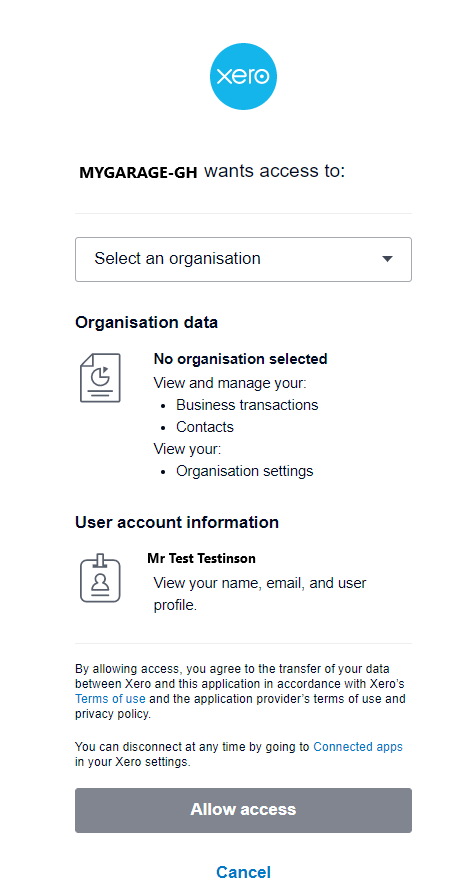
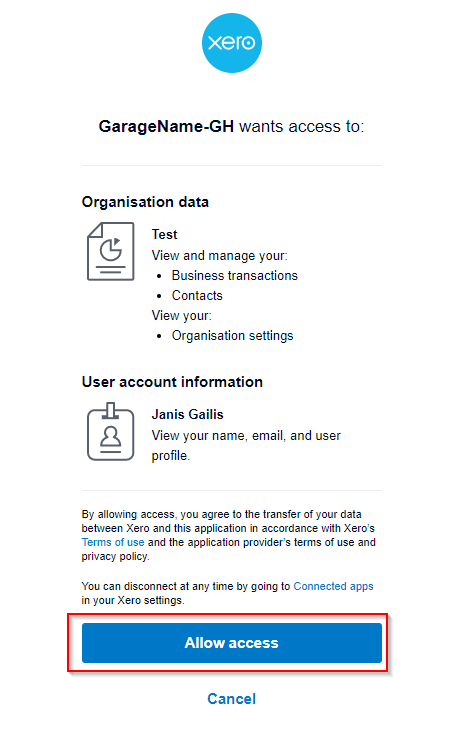
xero integration docs update

Changed region(s): [[0.1223, 0.2716, 0.8865, 0.9959], [0.1528, 0.0, 0.7948, 0.2112], [0.8559, 0.2716, 0.8865, 0.332]]

diff --git a/docs/xero-api-integration.md b/docs/xero-api-integration.md
@@ -39,28 +39,35 @@ Garage Hive allows you to export your data to Xero via an API. You can export th
 
     ![](media/garagehive-xero-setup.png)
 
-1. To get started with the integration, you'll need to create an "app" in Xero. Sign in with your Xero credentials at [this link](https://developer.xero.com/myapps/){:target="_blank"}. Now, in the middle or top right of the screen, choose **New App**.
-1. Name the App; It should be unique, thus we recommend using **GarageName-GH**, but it may be anything. Fill up the details shown below and **Create The App**.
+1. To get started with the integration, you'll need to create an "**App**" in Xero. Sign in with your Xero credentials at [this link](https://developer.xero.com/myapps/){:target="_blank"}. Now, in the middle or top right of the screen, choose **New App**.
+1. Name the App; It should be unique, thus we recommend using **GarageName-GH**, but it may be any other name that you choose. Fill up the details shown below.
    * **Company or Application URL** - ht<span>tps://www.garagehive.co.uk
-   * **OAuth 2.0 redirect URI** - ht<span>tps://hivemgtservice.garagehive.co.uk/xero-oauth2/callback
+   * **Redirect URL** - ht<span>tps://hivemgtservice.garagehive.co.uk/xero-oauth2/callback
+
+1. Select the **Terms & Conditions** checkbox and then click **Create App**.
 
      ![](media/xero-2-orth-app.png)
 
-1. Once created, copy the client id and paste it into Garage Hive in the **Xero Client Id** field under **Xero** FastTab.
-1. Then choose Generate secret, copy it, and enter it into Garage Hive in the **Xero Client Secret** field.
-1. Select **Save** in Xero.
+1. In the next page, select **Configuration** on the left hand side.
+
+     ![](media/xero-2-orth-app1.png)
+
+1. Copy the client id and paste it into Garage Hive in the **Xero Client Id** field under **Xero** FastTab.
+1. Then choose **Generate a Secret**, copy it, and enter it into Garage Hive in the **Xero Client Secret** field.
 
      ![](media/xero-2-orth-app-2.png)
 
-1. Now, under Garage Hive's **Accountancy Integration Setup**, from the actions bar, choose **Actions**, then **Xero**, and lastly **Authorise**.
+     ![](media/xero-2-orth-app2.png)
+
+     ![](media/xero-2-orth-app3.png) 
+
+2. Now, under Garage Hive's **Accountancy Integration Setup**, from the actions bar, choose **Actions**, then **Xero**, and lastly **Authorise**.
 
      ![](media/xero-2-orth-app-3.png)
 
-1. You will be redirected to a **Xero Website** where you will be prompted to select the correct company and update the connection details.
+3. You will be redirected to the **Xero Website** and prompted to select **Allow Access** before a successful integration is confirmed.
 
      ![](media/xero-2-orth-app-4.png)
-
-1. Select **Allow** access, and a successful integration will be confirmed.
 
      ![](media/xero-2-orth-app-5.png)
 
